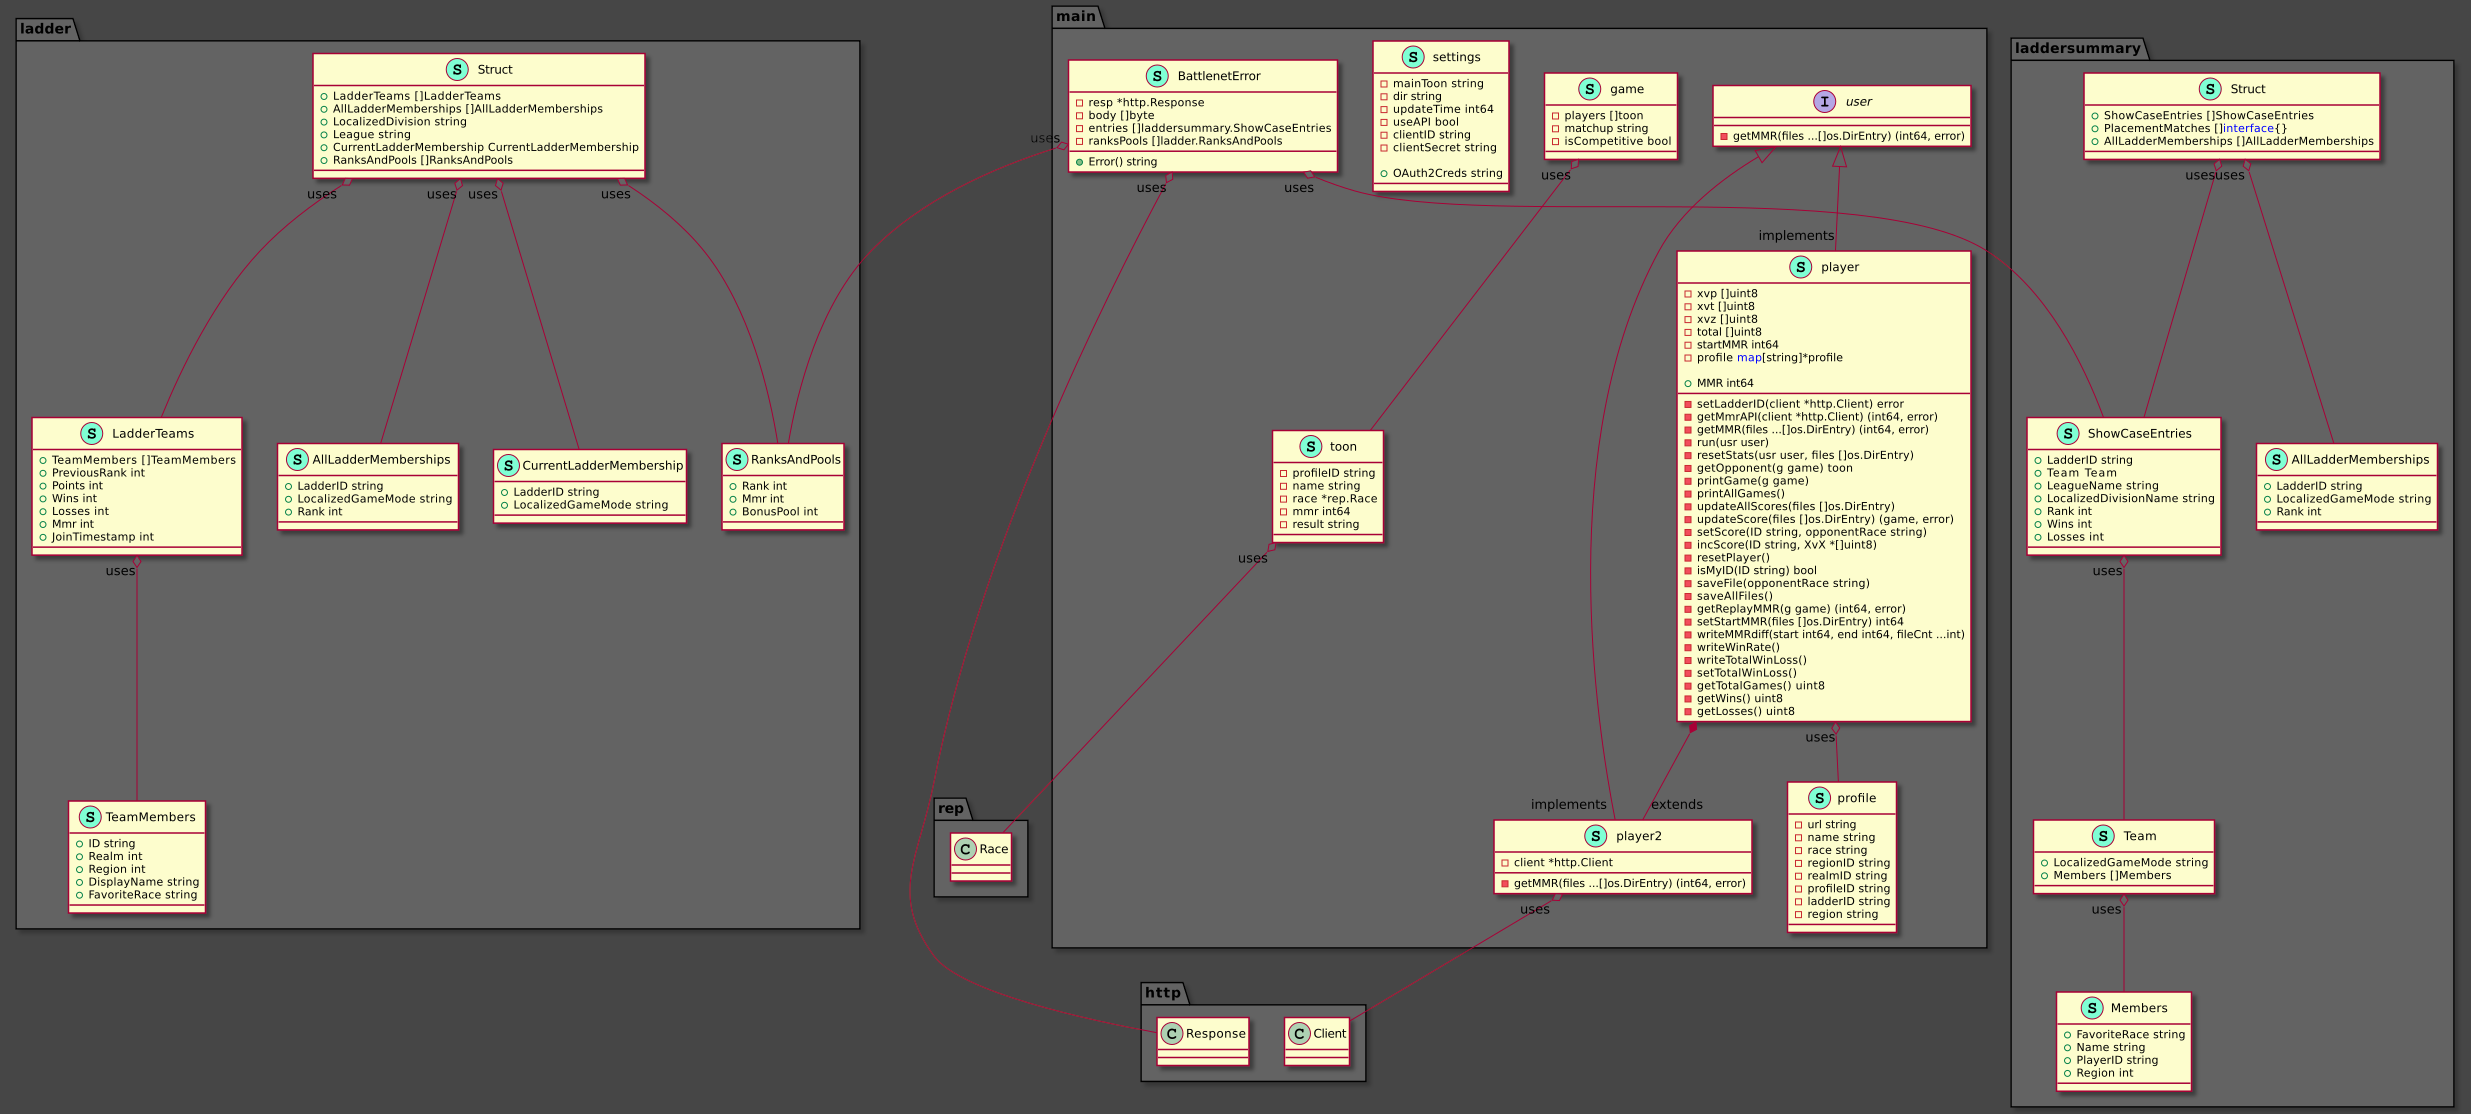
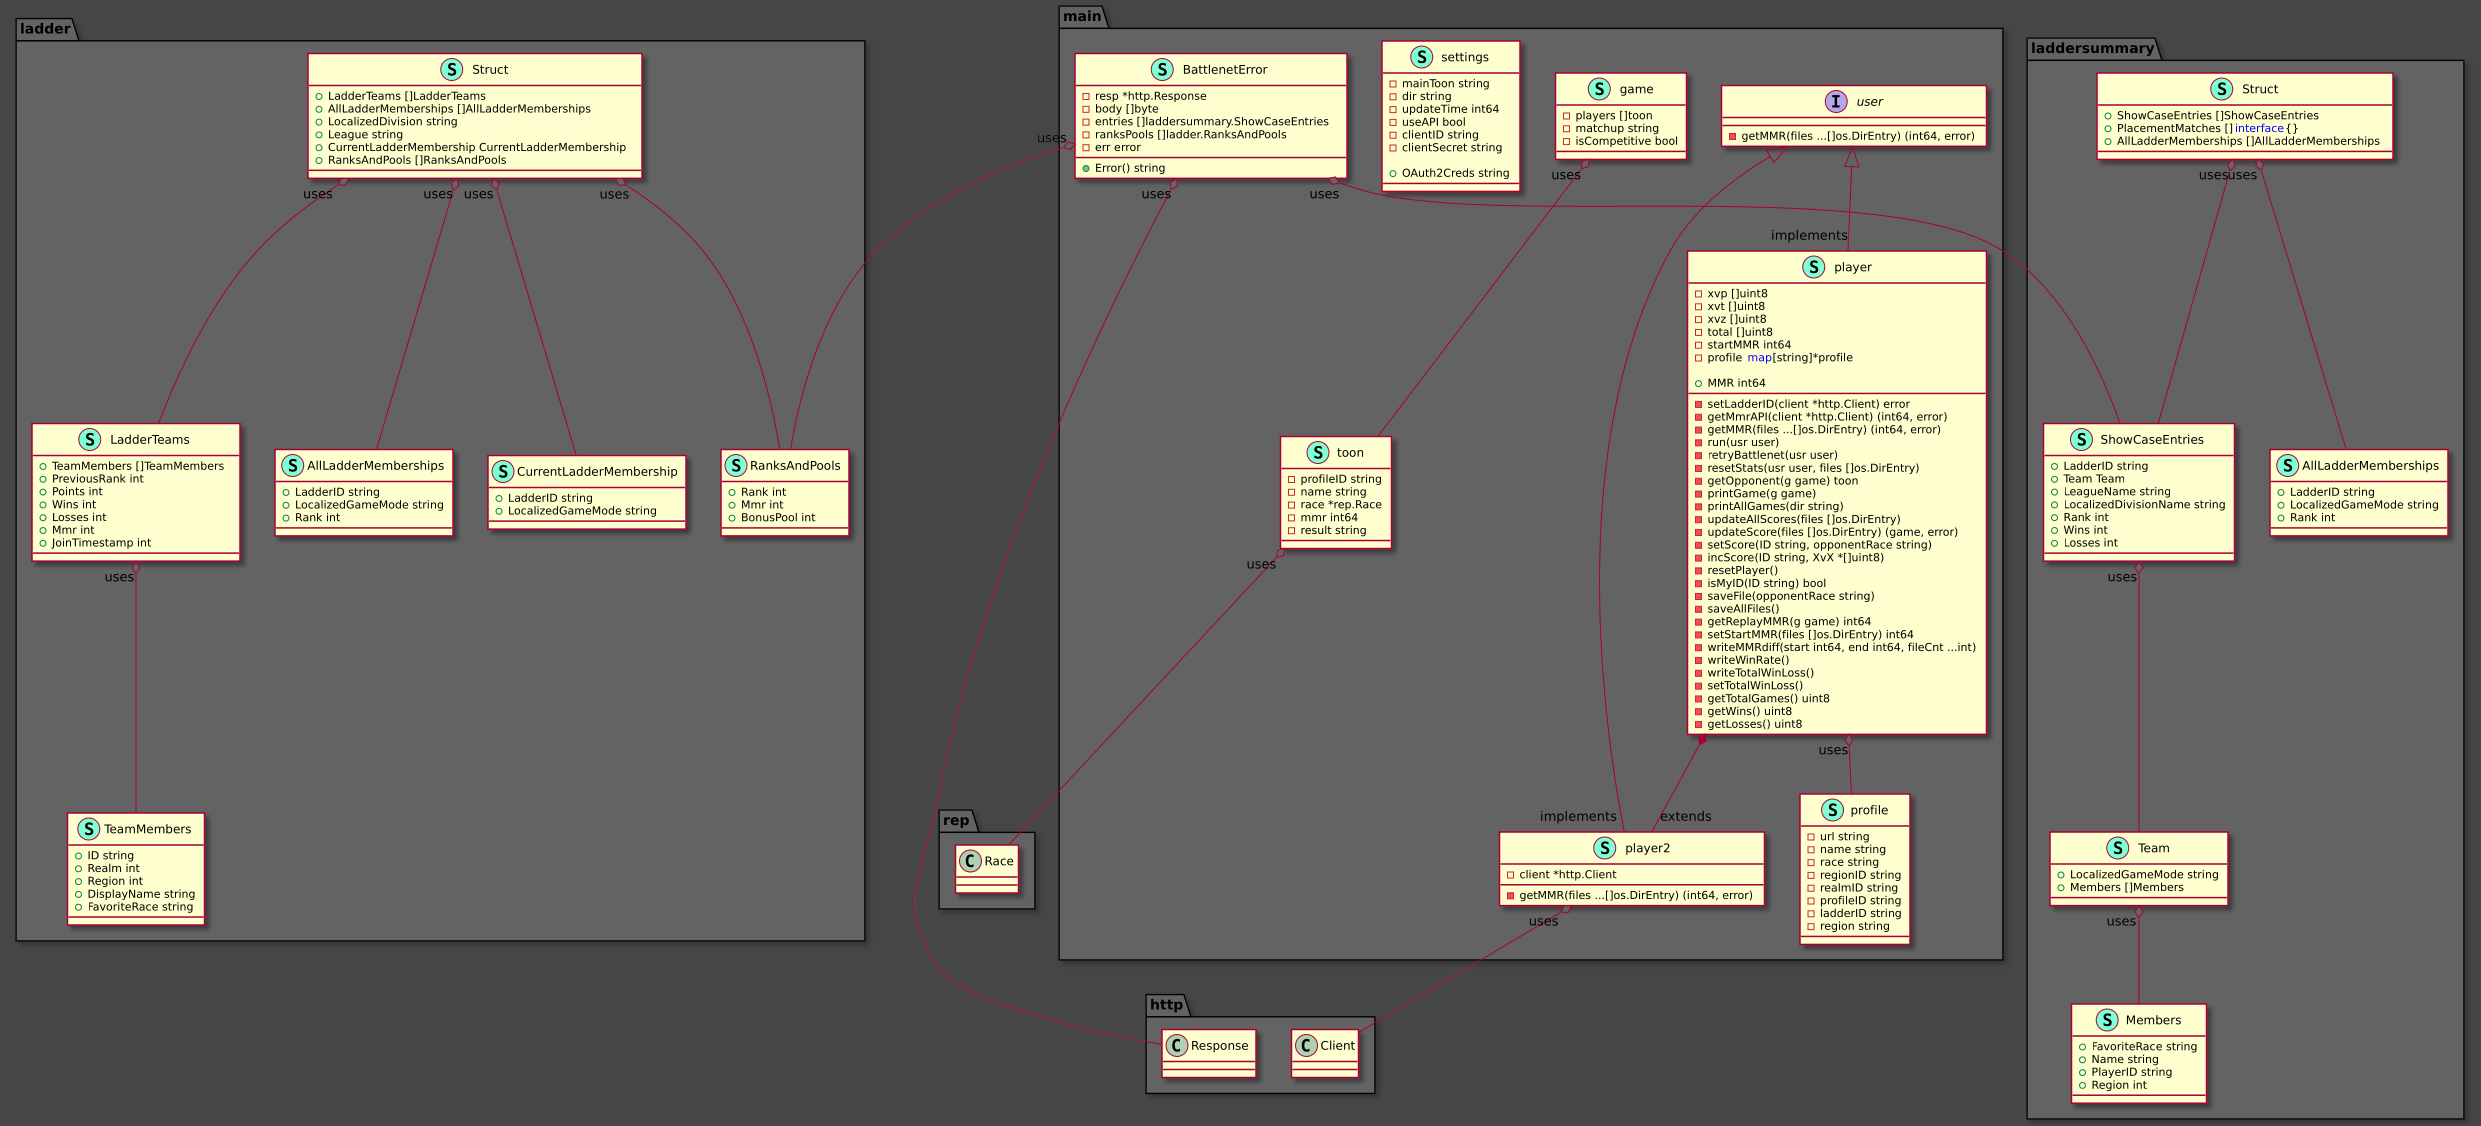
Change getReplayMMR(game) to not return error. Tweak main() err.

diff --git a/sc2replay.go b/sc2replay.go
@@ -41,7 +41,7 @@ func (p *player) getMMR(files ...[]os.DirEntry) (int64, error) {
 		return 0, err
 	}
 	lastGame := fileToGame(newestFile)
-	return p.getReplayMMR(lastGame)
+	return p.getReplayMMR(lastGame), nil
 }
 
 func (p *player2) getMMR(files ...[]os.DirEntry) (int64, error) {
@@ -113,13 +113,13 @@ func mainAPI(pl *player2) {
 	if len(files) > 0 {
 		pl.setStartMMR(files)
 		pl.updateAllScores(files)
-		pl.writeMMRdiff(pl.startMMR, pl.MMR)
 		pl.writeWinRate()
 	} else {
 		saveResetStats()
 	}
 
 	mmr, err := pl.getMmrAPI(client)
+	pl.writeMMRdiff(pl.startMMR, mmr)
 	if err != nil {
 		redirectError(err)
 		mainNoAPI(pl.player)
@@ -143,7 +143,7 @@ func mainNoAPI(pl *player) {
 		pl.setStartMMR(files)
 		pl.updateAllScores(files)
 		newestGame := getLastModifiedGame(files)
-		mmr, _ := pl.getReplayMMR(newestGame)
+		mmr := pl.getReplayMMR(newestGame)
 		pl.writeMMRdiff(pl.startMMR, mmr, len(files))
 		pl.writeWinRate()
 	} else {
@@ -197,8 +197,8 @@ func (p *player) run(usr user) {
 
 		mmr, err := usr.getMMR(files)
 		if err != nil {
-			mmr = p.MMR
-			log.Println(err)
+			redirectError(err)
+			mainNoAPI(p)
 		}
 
 		if cfg.useAPI {

diff --git a/stats.go b/stats.go
@@ -1,7 +1,6 @@
 package main
 
 import (
-	"errors"
 	"fmt"
 	"math"
 	"os"
@@ -9,11 +8,11 @@ import (
 
 // getReplayMMR sets the player MMR and returns the value. And returns 0 if you haven't
 // played in a long time, it's your first 2-3 placement matches, or an A.I. replay.
-func (p *player) getReplayMMR(g game) (int64, error) {
+func (p *player) getReplayMMR(g game) int64 {
 	var MMR int64
 
 	if !g.isCompetitive {
-		return 0, nil
+		return 0
 	}
 
 	for _, pl := range g.players {
@@ -24,11 +23,11 @@ func (p *player) getReplayMMR(g game) (int64, error) {
 
 	if MMR > 0 {
 		p.MMR = MMR
-		return MMR, nil
+		return MMR
 	}
 
 	p.MMR = 0
-	return 0, errors.New("could not find MMR from replay")
+	return 0
 }
 
 // setStartMMR returns 0 if the data is invalid (nil, 0, -36400) or vs the A.I.
@@ -37,7 +36,7 @@ func (p *player) setStartMMR(files []os.DirEntry) int64 {
 
 	for _, file := range files {
 		game := fileToGame(file)
-		MMR, _ := p.getReplayMMR(game)
+		MMR := p.getReplayMMR(game)
 
 		if MMR <= 0 || !game.isCompetitive {
 			continue

diff --git a/readme.md b/readme.md
@@ -1,6 +1,6 @@
 ![overlay](resources/SC2-overlay.png)
 
-Keep track of your basic game stats. Your win/loss record, win percentage, MMR gain/loss, and total win/loss for each gaming session.
+Keep track of your basic game stats in Starcraft 2. Your win/loss record, win percentage, MMR gain/loss, and total win/loss for each gaming session.
 
 This tool creates 6 text files in your current working directory:
 * xvp.txt
@@ -80,11 +80,11 @@ wc **/*.go | sort -k 1n
    31    84  1106 api/laddersummary/ladder-summary.go
    58   142  1820 api/ladder/ladder.go
    58   159  1104 sc2replay_test.go
-  119   355  2270 stats.go
+  118   344  2192 stats.go
   172   568  4877 api.go
   185   607  4738 filemgr.go
-  529  1383 10953 sc2replay.go
- 1152  3298 26868 total
+  529  1381 10954 sc2replay.go
+ 1151  3285 26791 total
  ```
 
 Make a plantuml from source code
